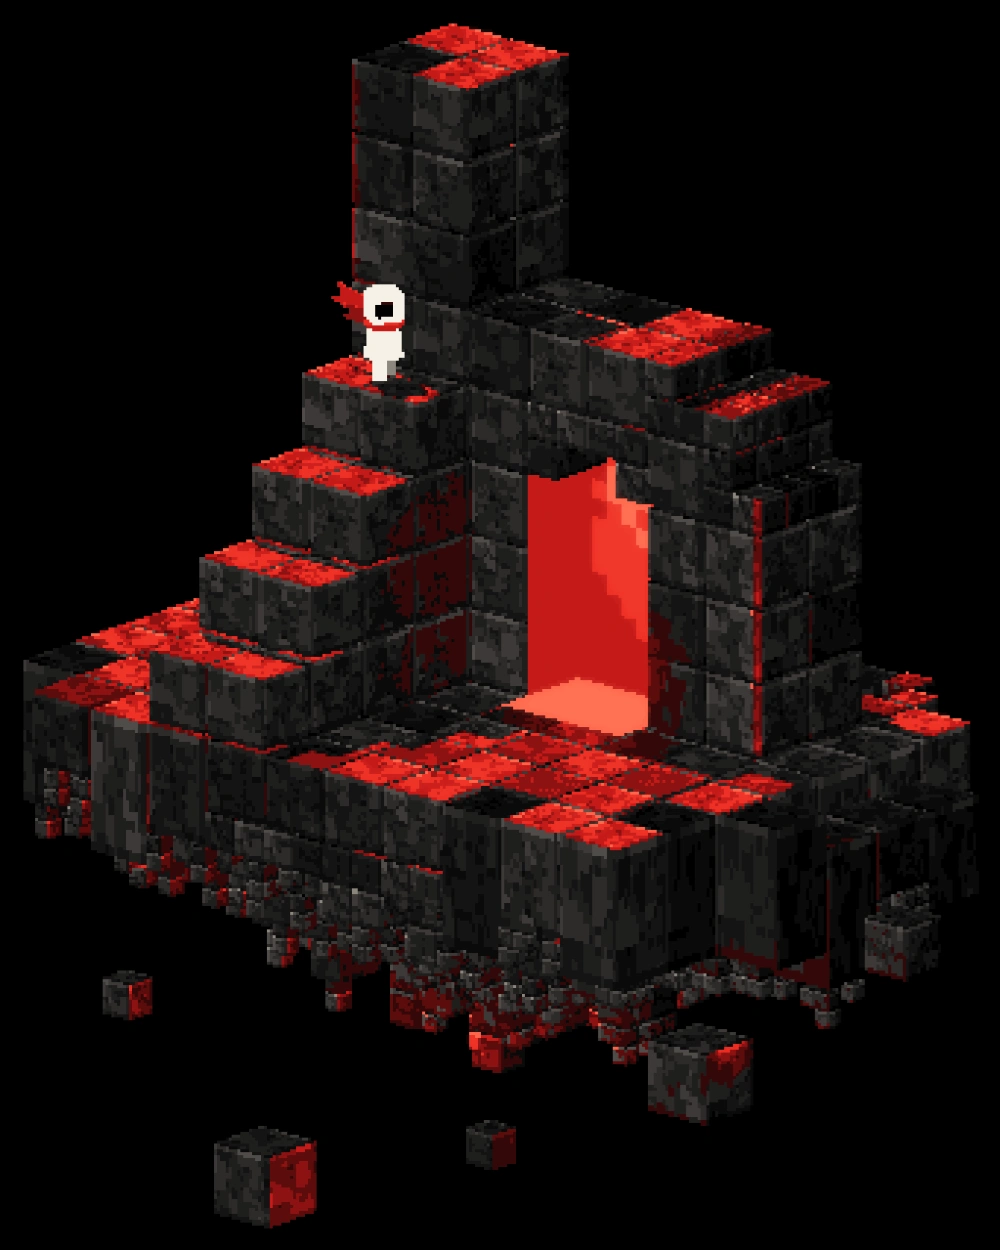
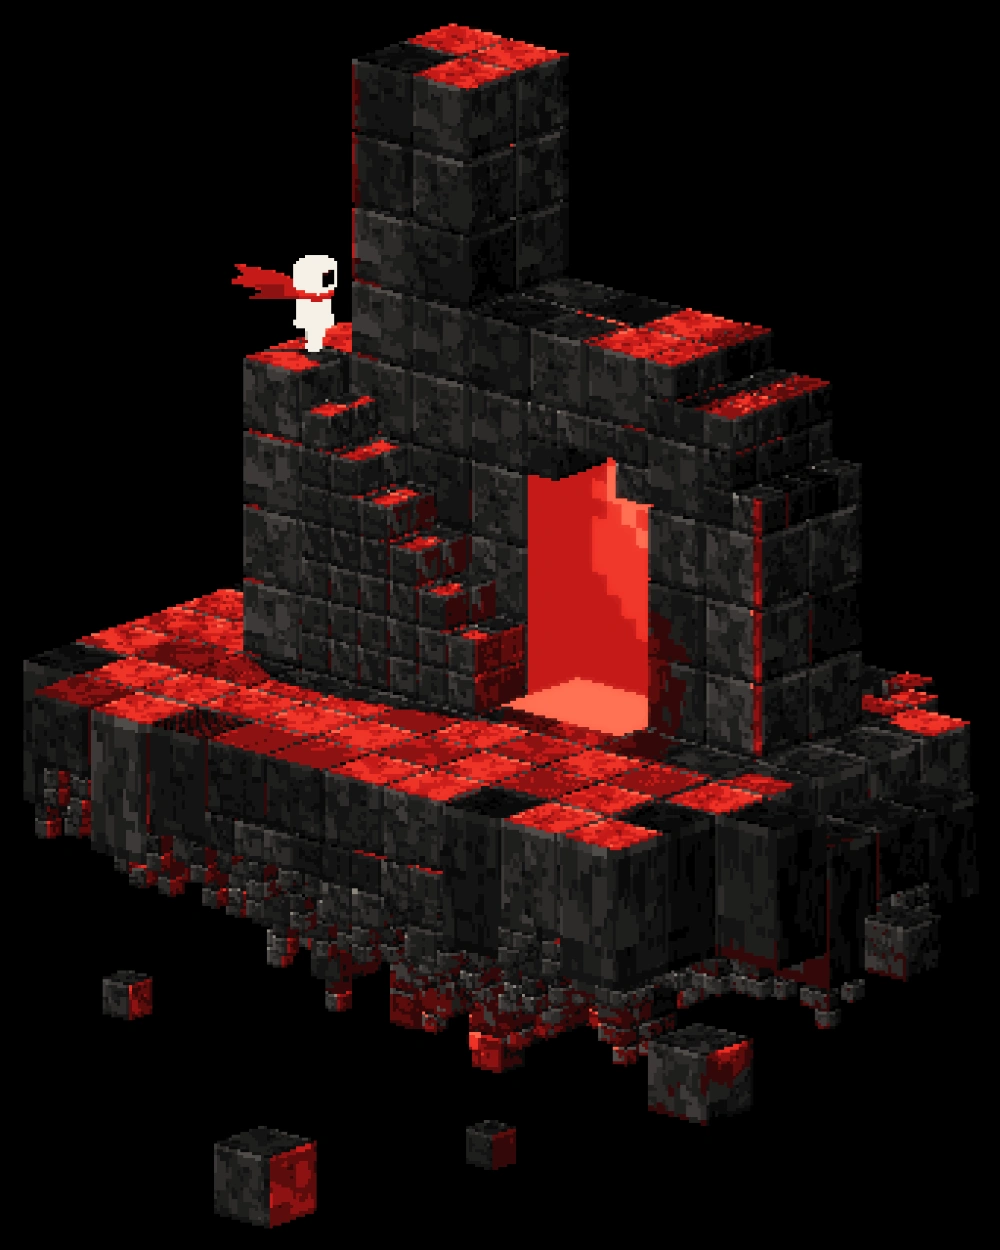
Sculpture: stairs back to the reference's direction
- landing at the stem's left edge where the explorer stands; six steps of 7.5 cubes, one big block
  deep, run right along the stem's front down to the gate (the toward-the-viewer flight is removed)
- explorer faces down the flight; the extra stair light is removed so the stem stays dark stone

Claude-Session: https://claude.ai/code/session_01QzWKhTYrrY3Jd26DSiS11Q

Changed region(s): [[0.124, 0.1872, 0.527, 0.624]]

diff --git a/tools/sculpture3d.js b/tools/sculpture3d.js
@@ -106,11 +106,9 @@ function buildLetter() {
       }
     }
   }
-  // stairs: four big steps, each two big blocks wide (the stem's width), descending from the stem toward the viewer
-  putBox(30, 60, 45, 60, 0, 60, 'stair');                                  // top step / landing, where the explorer stands
-  putBox(30, 60, 60, 75, 0, 45, 'stair');
-  putBox(30, 60, 75, 90, 0, 30, 'stair');
-  putBox(30, 60, 90, 105, 0, 15, 'stair');
+  // stairs, as in the reference: a landing block against the stem's front-left (big blocks, 60 high, where the explorer stands),
+  // then one flight running right along the front wall, down to the gate (emitStairs)
+  putBox(15, 30, 30, 60, 0, 60, 'stair');                                  // landing at the stem's left edge
   chips.forEach(([i, j, k]) => grid.delete(gk(i, j, k)));
 }
 
@@ -118,22 +116,19 @@ function buildLetter() {
 // steps drop toward the viewer from it; then a thin flight (7.5 deep) of eight steps runs right along the stem's front, down to the gate.
 // Each step is a dark stone column topped by a lit tread block, so the treads read as a crisp staircase.
 function emitStairs() {
-  const q = 3.75, h = 7.5;
-  let c = 0;
-  const cube = (X, Y, Z, sz, t) => {
-    const f = baseFaces();
-    f[2] = 'c' + Math.floor(hash3(c, 1, 0, 250) * 4); f[0] = 'c' + Math.floor(hash3(c, 2, 0, 251) * 4); f[4] = 'c' + Math.floor(hash3(c, 3, 0, 252) * 4);
-    blocks.push({ X, Y, Z, s: sz, f, t }); c++;
-  };
-  const step = (X, Y, top, from) => {                                  // small cubes from 'from' up to the tread
-    const n = Math.round((top - from) / q);
-    for (let k = 0; k < n; k++) cube(X, Y, from + k * q + q / 2, q, k === n - 1 ? 1.1 : 0.6 + 0.3 * hash3(c, 4, 0, 253));
-  };
-  // landing block (x 30..37.5, y 45..60): solid 7.5 cubes up to 45, then the landing and three steps toward the viewer in small cubes
-  for (let yy = 0; yy < 2; yy++) for (let k = 0; k < 6; k++) cube(30 + h / 2, 45 + h / 2 + yy * h, k * h + h / 2, h, 0.6 + 0.3 * hash3(yy, k, 0, 254));
-  for (let x = 0; x < 2; x++) for (let r = 0; r < 4; r++) step(30 + q / 2 + x * q, 45 + q / 2 + r * q, [60, 56.25, 52.5, 48.75][r], 45);
-  // the flight down to the gate: eight steps, 7.5 deep
-  for (let st = 0; st < 8; st++) for (let r = 0; r < 2; r++) step(37.5 + q / 2 + st * q, 45 + q / 2 + r * q, 52.5 - st * 7.5, 0);
+  // six steps of 7.5 cubes (7.5 run, 7.5 rise), one big block deep, from the landing down along the stem's front to the gate
+  const h = 7.5;
+  for (let st = 0; st < 6; st++) {
+    const top = 52.5 - st * h, X = 30 + h / 2 + st * h;
+    for (let r = 0; r < 2; r++) {
+      const n = Math.round(top / h);
+      for (let k = 0; k < n; k++) {
+        const f = baseFaces();
+        f[2] = 'c' + Math.floor(hash3(st, r, k, 250) * 4); f[0] = 'c' + Math.floor(hash3(st, r, k, 251) * 4); f[4] = 'c' + Math.floor(hash3(st, r, k, 252) * 4);
+        blocks.push({ X, Y: 45 + h / 2 + r * h, Z: k * h + h / 2, s: h, f, t: k === n - 1 ? 1.2 : 0.55 + 0.3 * hash3(st, r, k, 253) });
+      }
+    }
+  }
 }
 
 /* merge aligned groups into the island's three tiers: 15-unit cubes (4x4x4 cells) where a full group fits, else 7.5-unit blocks
@@ -212,7 +207,7 @@ function emitPlatform() {
       const r = hash3(ci, cj, 0, 2);
       const ring = rr > 0.8;
       const flat = cj >= 0 && cj <= 6 && x > -30 && x < 150;                  // keeps its height: under the letter, the stairs and the doorstep
-      const under = cj >= 1 && cj <= 2 && x > 30 && x < 135 || cj >= 3 && cj <= 6 && x > 30 && x < 60;                       // hidden under the letter: no checker
+      const under = cj >= 1 && cj <= 2 && x > 30 && x < 135 || cj === 3 && x > 30 && x < 75;                       // hidden under the letter: no checker
       let top = 0;
       if (ring && !flat) top = r < 0.28 ? -CELL / 2 : r > 0.72 ? CELL / 2 : 0;  // uneven rim: cubes stand at three heights
       const D = bowlDepth(x, y) * (0.96 + 0.08 * hash3(ci, cj, 1, 4));
@@ -341,6 +336,7 @@ function material(token, n) {
 /* ---------- build ---------- */
 buildLetter();
 emitLetter();
+emitStairs();
 emitPlatform();
 emitLoose();
 
@@ -461,8 +457,8 @@ for (const [, list] of groups) {
   add(new THREE.ExtrudeGeometry(tail, { depth: 0.4, bevelEnabled: false }), red, -1.4, 8.9, -0.4, 0, 0.35, -0.05);
   add(new THREE.ExtrudeGeometry(tail, { depth: 0.3, bevelEnabled: false }), redDark, -1.2, 8.3, -1.2, 0, 0.55, 0.08).scale.set(0.75, 0.7, 1);
   g.scale.setScalar(1.3);
-  g.rotation.y = -0.55;                                                   // turned toward the viewer, looking down the stairs
-  g.position.set(45, LANDING_Z, 52.5);
+  g.rotation.y = 0.1;                                                     // facing right, down the flight toward the gate
+  g.position.set(22.5, LANDING_Z, 47);
   scene.add(g);
 })();
 
@@ -490,9 +486,9 @@ const doorMouth = new THREE.PointLight(0xff3018, 700, 30, 2);          // short 
 doorMouth.position.set(DOOR.cx + 4, 8, 50);
 scene.add(doorInner, doorMouth);
 
-const stairLight = new THREE.PointLight(0xff2a1c, 380, 75, 2);       // straight above the stairs: the treads glow, the risers stay dark
-stairLight.position.set(45, 110, 80);
-// (no extra stair light: the key lights the treads, the risers stay dark stone)
+const stairLight = new THREE.PointLight(0xff2a1c, 900, 42, 2);       // straight above the stairs: the treads glow, the risers stay dark
+stairLight.position.set(52, 72, 56);
+// (no separate stair light: it spotted the stem red; the key lights the treads)
 
 const edgeLight = (X, Y, Z, intensity, dist) => {
   const l = new THREE.PointLight(0xff2418, intensity, dist, 2);

diff --git a/design/ITERATION.md b/design/ITERATION.md
@@ -47,5 +47,6 @@ Use [DESIGN.md](../DESIGN.md) as the current source of design decisions. Add rev
 | 2026-10-15 | Bigger glowing gate (37.5 x 56) lit from inside by smooth glowing panels with light spilling onto the floor; wider stone band above it; bowl one cube longer and five tall with a two-cube right wall; taller stem; rebuilt stairs (landing, three steps, eight-step flight with lit treads); new chibi explorer; wider island front-left with a ragged, spiky underside; lighting rebalanced (key above the b, lifted neutral fill, softer edge strips). | Implemented, awaiting user review |
 | 2026-10-15 | Big blocks throughout: stairs are four big steps two blocks wide descending from the stem toward the viewer; gate rebuilt on the big-block grid (2 wide, 3 tall, stepped arch, one block deep) with matching glow panels; island wider toward the front; underside mostly half blocks with a few small tips; red rebalanced (no stair light, stronger gate spill and bloom). | Implemented, awaiting user review |
 | 2026-10-15 | Pixel-native render (1/6 resolution, small charcoal/red palette, stepped glow, nearest-neighbour upscale); pixel-texture gate glow; red kept to tops and edges (short doorway spill, no wall strips); red light under the island lights the hanging tips; explorer rebuilt as a readable pixel sprite. | Implemented, awaiting user review |
+| 2026-10-15 | Stairs restored to the reference's direction: explorer on a landing at the stem's left edge, six steps of 7.5 cubes running right along the stem's front down to the gate. Only the bowl's right side uses the two-big-block change. | Implemented, awaiting user review |
 
 For each later review, record the exact file, decision, and approval status. Do not mark proposals approved without a user decision.
